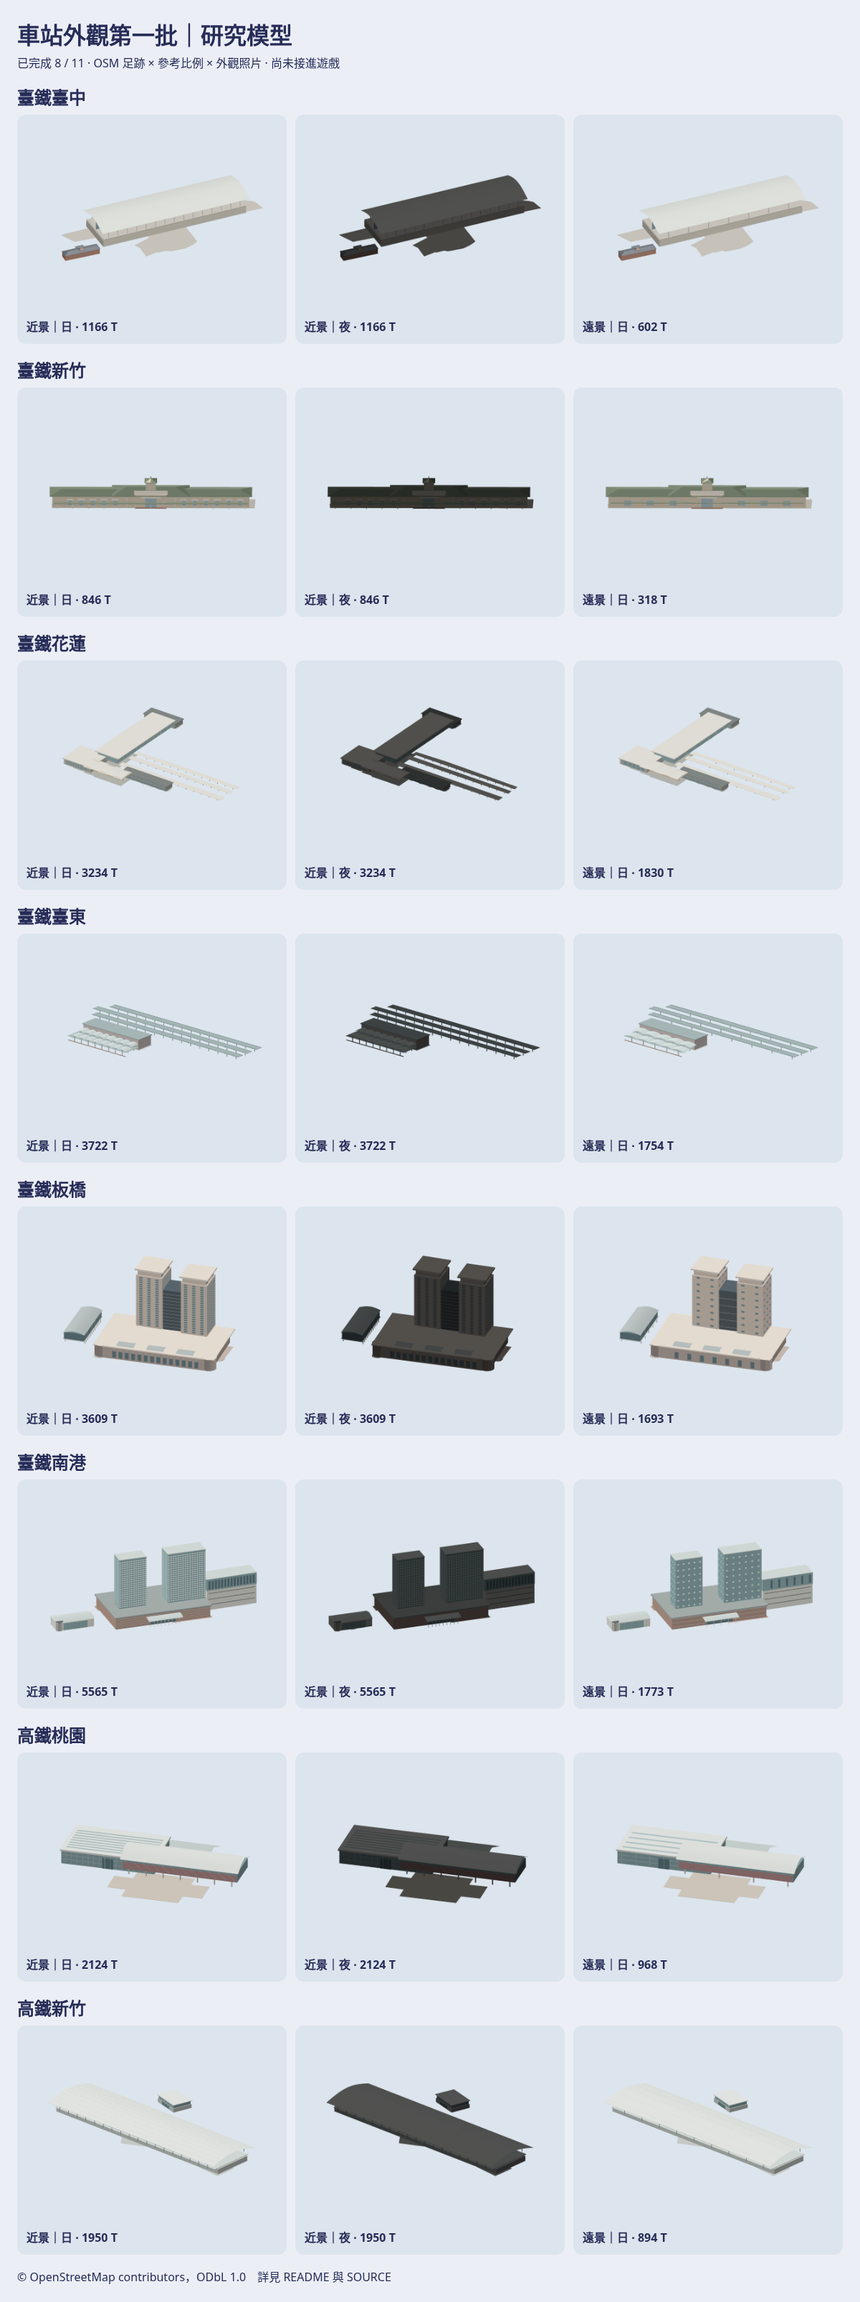
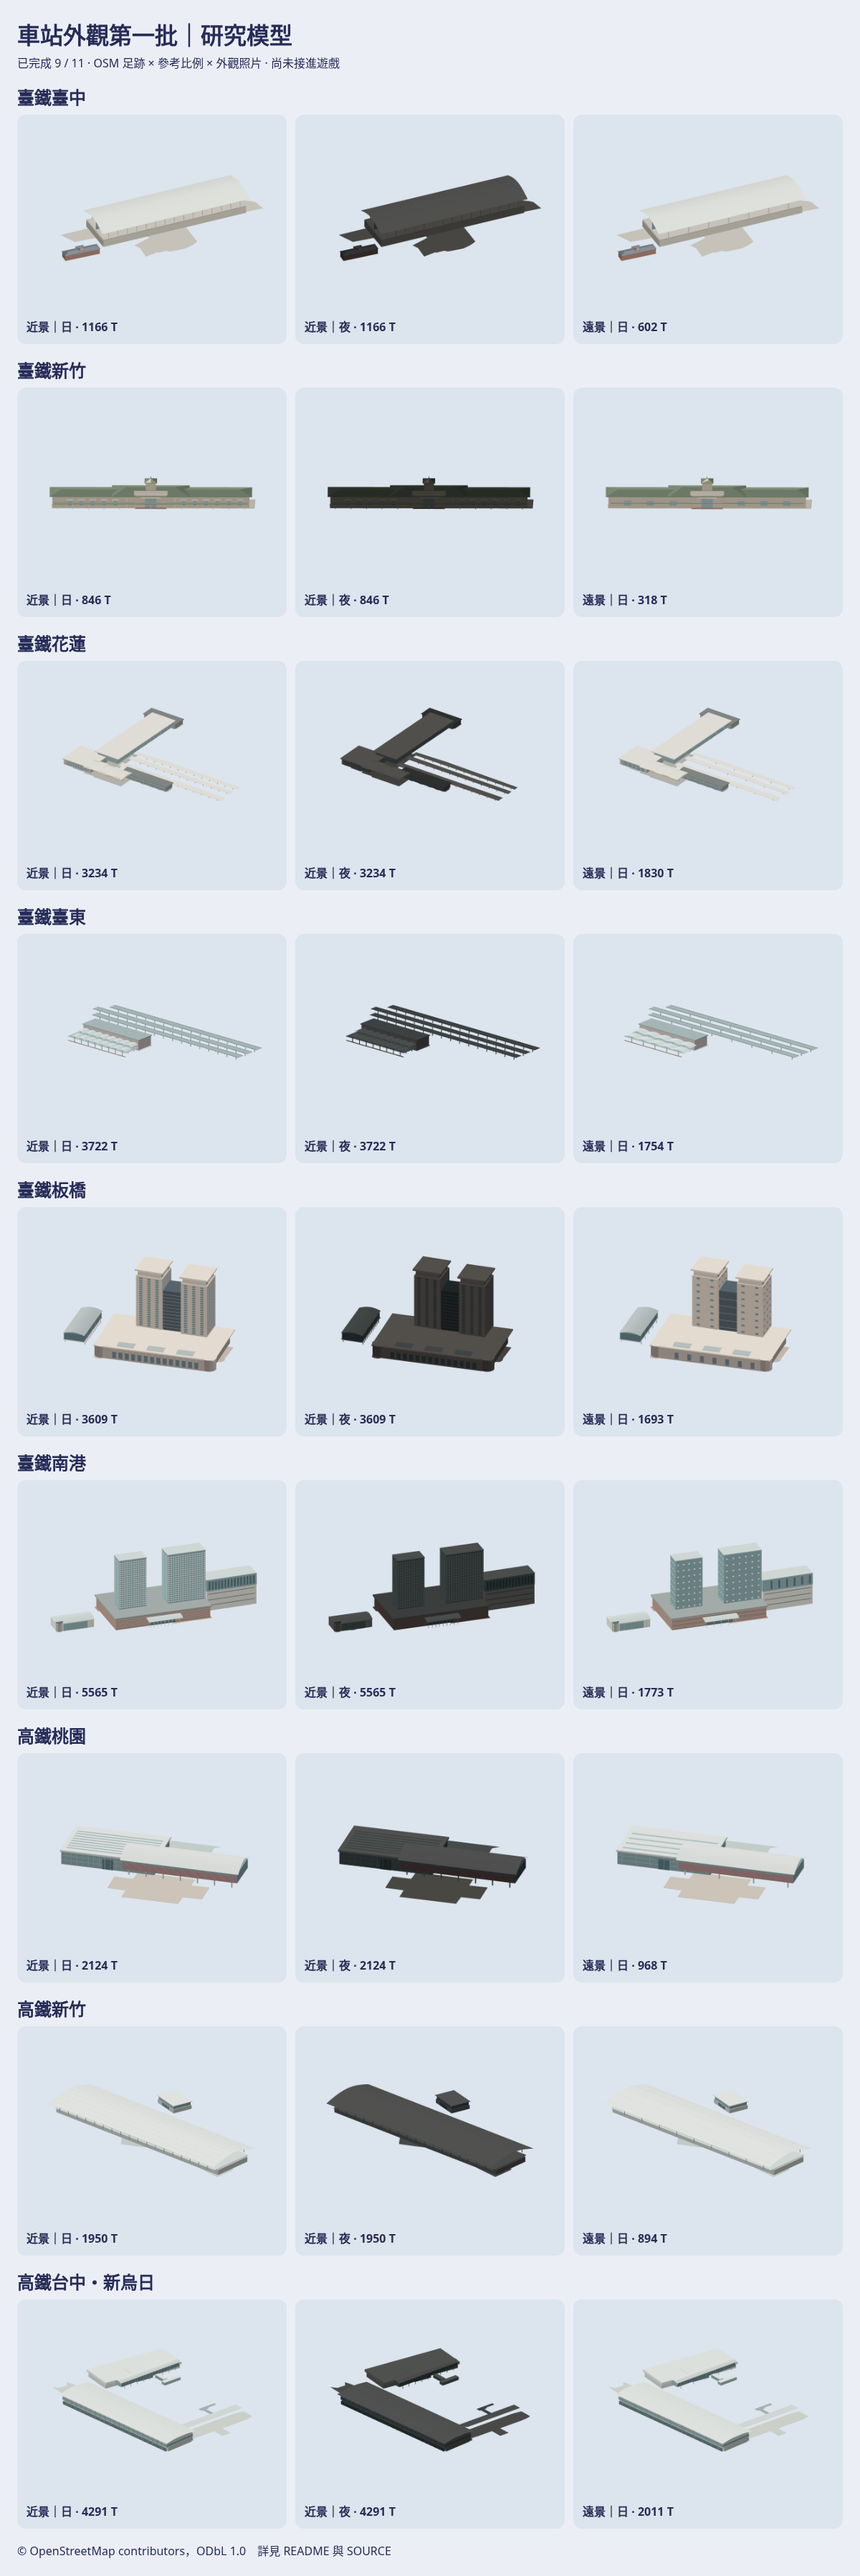
Add Taichung HSR exterior study
Agent: Codex

diff --git a/Sources/GamePresentation/Map3DStationExteriorBatch1.swift b/Sources/GamePresentation/Map3DStationExteriorBatch1.swift
@@ -3,7 +3,7 @@ import Foundation
 /// Isolated exterior study. No station catalog or live-map lookup calls this type.
 public enum Map3DStationExteriorBatch1 {
     public enum LevelOfDetail: Sendable { case near, far }
-    public enum Station: String, CaseIterable, Sendable { case taichungTRA = "tra-taichung", hsinchuTRA = "tra-hsinchu", hualienTRA = "tra-hualien", taitungTRA = "tra-taitung", banqiaoTRA = "tra-banqiao", nangangTRA = "tra-nangang", taoyuanHSR = "hsr-taoyuan", hsinchuHSR = "hsr-hsinchu" }
+    public enum Station: String, CaseIterable, Sendable { case taichungTRA = "tra-taichung", hsinchuTRA = "tra-hsinchu", hualienTRA = "tra-hualien", taitungTRA = "tra-taitung", banqiaoTRA = "tra-banqiao", nangangTRA = "tra-nangang", taoyuanHSR = "hsr-taoyuan", hsinchuHSR = "hsr-hsinchu", taichungHSR = "hsr-taichung" }
 
     public static func model(for station: Station, detail: LevelOfDetail) -> Map3DModelPack.Model {
         var builder = StationKitBuilder()
@@ -16,6 +16,7 @@ public enum Map3DStationExteriorBatch1 {
         case .nangangTRA: builder.nangangExteriorStudy(detail: detail)
         case .taoyuanHSR: builder.taoyuanHSRExteriorStudy(detail: detail)
         case .hsinchuHSR: builder.hsinchuHSRExteriorStudy(detail: detail)
+        case .taichungHSR: builder.taichungHSRExteriorStudy(detail: detail)
         }
         return .flat(named: "station-exterior-study-\(station.rawValue)-\(detail == .near ? "near" : "far")", from: builder.mesh)
     }
@@ -534,6 +535,48 @@ public enum Map3DStationExteriorBatch1 {
         (-43.618, -69.753), (-47.282, -69.641), (-46.889, -59.812),
         (-61.120, -58.700), (-74.272, -57.866), (-75.019, -69.363),
         (-77.159, -69.219), (-77.350, -75.446),
+    ]
+
+    // Taichung HSR / TRA Xinwuri / Taichung MRT / two transfer links.
+    // osmtoday Taiwan PBF 2026-11-06. Metres east/north from
+    // (120.61474665, 24.1112536); © OpenStreetMap contributors, ODbL 1.0.
+    static let xinwuriFootprint: [(Float, Float)] = [ // OSM way 337921979
+        (7.688, -149.713), (-93.034, -138.137), (-116.692, -135.413),
+        (-125.989, -134.757), (-135.986, -134.868), (-144.826, -135.258),
+        (-150.226, -135.647), (-153.250, -167.304), (-148.257, -170.039),
+        (-139.630, -172.841), (-130.018, -174.787), (-121.483, -176.044),
+        (-60.485, -182.793), (-60.769, -185.284), (-63.936, -213.817),
+        (-52.599, -214.829), (-38.897, -215.941), (-37.192, -196.893),
+        (-36.259, -185.273), (4.562, -189.543), (21.928, -190.266),
+        (29.174, -201.696), (36.908, -199.295), (37.700, -189.654),
+        (43.972, -188.575), (49.301, -186.074), (50.630, -169.283),
+        (46.915, -164.491), (39.638, -159.820), (31.965, -157.241),
+        (56.486, -133.656), (32.473, -130.888),
+    ]
+    static let taichungHSRFootprint: [(Float, Float)] = [ // OSM way 544377825
+        (110.684, 215.941), (119.443, 201.696), (142.218, 199.906),
+        (153.250, 212.360), (145.577, 69.074), (141.944, 19.526),
+        (138.716, -9.207), (137.620, -18.903), (133.023, -59.890),
+        (132.008, -68.874), (127.684, -107.392), (121.128, -141.329),
+        (112.511, -127.674), (89.786, -124.772), (78.744, -136.147),
+        (65.702, -134.757), (56.486, -133.656), (32.473, -130.888),
+        (26.373, -125.617), (44.409, -111.373), (60.901, -97.451),
+        (69.630, -98.285), (76.085, 25.041), (80.824, 74.645),
+        (103.792, 195.914),
+    ]
+    static let taichungLinkEWFootprint: [(Float, Float)] = [ // OSM way 862779520
+        (-87.807, -84.575), (-79.799, -85.320), (-69.873, -86.332),
+        (-65.742, -86.676), (-64.657, -75.468), (-111.750, -70.142),
+        (-112.592, -77.725), (-87.361, -80.839),
+    ]
+    static let taichungLinkNSFootprint: [(Float, Float)] = [ // OSM way 862779521
+        (-79.799, -85.320), (-83.098, -117.622),
+        (-73.172, -118.767), (-69.873, -86.332),
+    ]
+    static let taichungMRTFootprint: [(Float, Float)] = [ // OSM way 862779522
+        (-116.692, -135.413), (-93.034, -138.137), (7.688, -149.713),
+        (15.392, -143.864), (32.473, -130.888), (-73.172, -118.767),
+        (-83.098, -117.622), (-146.257, -110.372), (-148.632, -131.699),
     ]
 
 }
@@ -1275,5 +1318,117 @@ private extension StationKitBuilder {
         liujia.box(0, 6.52, -15.4, 42, 0.22, 0.42, steel)
         add(.flat(named: "liujia-station", from: liujia.mesh),
             at: Map3DPoint(-61.24, 0, 82.58), angle: 86.1353 * .pi / 180)
+    }
+
+    mutating func taichungHSRExteriorStudy(detail: Map3DStationExteriorBatch1.LevelOfDetail) {
+        let roof = Map3DColor.rgb(0xE6EAE6)
+        let trim = Map3DColor.rgb(0xD8E0DD)
+        let wall = Map3DColor.rgb(0xD4D8D1)
+        let steel = Map3DColor.rgb(0xA8B8B6)
+        let glass = Map3DColor.rgb(0x98B7B8)
+        let darkGlass = Map3DColor.rgb(0x6A8589)
+        let shade = Map3DColor.rgb(0x697A7B)
+
+        footprint(Map3DStationExteriorBatch1.taichungHSRFootprint, color: wall)
+        footprint(Map3DStationExteriorBatch1.xinwuriFootprint, color: wall)
+        footprint(Map3DStationExteriorBatch1.taichungMRTFootprint, color: trim,
+                  baseY: 8, height: 0.32)
+        for outline in [Map3DStationExteriorBatch1.taichungLinkEWFootprint,
+                        Map3DStationExteriorBatch1.taichungLinkNSFootprint] {
+            footprint(outline, color: steel, baseY: 4, height: 0.32)
+        }
+
+        // The three halls have no OSM height tags. The 30/18/23 m peaks are
+        // reference-display estimates; roof and facade come from photos.
+        var hsr = StationKitBuilder()
+        hsr.box(0, 0.32, 0, 351, 75, 11.5, wall)
+        hsr.box(0, 11.82, 0, 350, 84, 7.2, glass)
+        hsr.box(0, 19.02, 0, 348, 83, 5.8, trim)
+        hsr.canopy(0, 25, 0, length: 360, width: 95,
+                   rise: 5, color: roof)
+        for z in stride(from: Float(-38), through: 38, by: detail == .near ? 9.5 : 19) {
+            let y = 25 + sinf((z + 47.5) / 95 * .pi) * 5
+            hsr.box(0, y + 0.02, z, 356, 0.14, 0.06, trim)
+        }
+        for x in stride(from: Float(-160), through: 160, by: detail == .near ? 16 : 40) {
+            for z: Float in [-43, 43] {
+                hsr.box(x, 0.32, z, 0.85, 0.85, 24.4, steel)
+                if detail == .near {
+                    hsr.beam(Map3DPoint(x, 20, z),
+                             Map3DPoint(x, 25.2, z * 0.77), 0.3, shade)
+                }
+            }
+        }
+        for z: Float in [-42.1, 42.1] {
+            hsr.box(0, 0.32, z, 347, 0.28, 8.5, darkGlass)
+        }
+        for x in stride(from: Float(-162), through: 162, by: detail == .near ? 9 : 27) {
+            for z: Float in [-42.35, 42.35] {
+                hsr.box(x, 1.0, z, 0.38, 0.2, 18.0, trim)
+            }
+        }
+        add(.flat(named: "taichung-hsr-hall", from: hsr.mesh),
+            at: Map3DPoint(107.0, 0, -38.07), angle: 79.0653 * .pi / 180)
+
+        var tra = StationKitBuilder()
+        tra.box(0, 0.32, 0, 204, 74, 12.0, wall)
+        tra.box(0, 12.32, 0, 208, 84, 5.68, roof)
+        tra.box(0, 1, -37.2, 52, 0.25, 15.8, darkGlass)
+        tra.box(0, 0.32, -42.5, 45, 8.0, 17.0, darkGlass)
+        for x in stride(from: Float(-20), through: 20, by: detail == .near ? 4 : 10) {
+            tra.box(x, 0.32, -46.65, 0.3, 0.2, 17.0, steel)
+        }
+        for x in stride(from: Float(-96), through: 96, by: detail == .near ? 12 : 30) {
+            for z: Float in [-37.5, 37.5] {
+                tra.box(x, 0.32, z, 0.6, 0.5, 12, trim)
+            }
+        }
+        tra.box(0, 18, -24, 58, 43, 1.0, roof)
+        for x in stride(from: Float(-21), through: 21, by: detail == .near ? 10.5 : 21) {
+            tra.box(x, 0.32, -43, 0.6, 0.6, 18.0, steel)
+        }
+        add(.flat(named: "xinwuri-station", from: tra.mesh),
+            at: Map3DPoint(-48.18, 0, 174.11), angle: 0.6372 * .pi / 180)
+
+        var mrt = StationKitBuilder()
+        for x in stride(from: Float(-76), through: 76, by: detail == .near ? 19 : 38) {
+            for z: Float in [-8.5, 8.5] {
+                mrt.box(x, 0, z, 0.8, 0.8, 8, steel)
+            }
+        }
+        mrt.box(0, 8.32, 0, 176, 20, 10.2, glass)
+        for z: Float in [-10.2, 10.2] {
+            mrt.box(0, 8.32, z, 174, 0.25, 8.8, darkGlass)
+        }
+        for x in stride(from: Float(-78), through: 78, by: detail == .near ? 9 : 26) {
+            for z: Float in [-10.45, 10.45] {
+                mrt.box(x, 8.32, z, 0.3, 0.2, 10.0, trim)
+            }
+        }
+        mrt.canopy(0, 18.5, 0, length: 180, width: 21.5,
+                   rise: 4.5, color: roof)
+        for x in stride(from: Float(-72), through: 72, by: detail == .near ? 18 : 36) {
+            mrt.beam(Map3DPoint(x, 18.5, -10),
+                     Map3DPoint(x, 22.7, 0), 0.25, steel)
+        }
+        add(.flat(named: "taichung-mrt", from: mrt.mesh),
+            at: Map3DPoint(-58.18, 0, 131.47), angle: -6.5481 * .pi / 180)
+
+        for (name, at, angle, length, width) in [
+            ("taichung-link-east-west", Map3DPoint(-88.87, 0, 78.69), Float(-6.4527), Float(47.6), Float(11.6)),
+            ("taichung-link-north-south", Map3DPoint(-76.57, 0, 102.16), Float(84.1794), Float(32.6), Float(10.0))
+        ] {
+            var link = StationKitBuilder()
+            link.box(0, 4.32, 0, length, width, 6.8, glass)
+            link.box(0, 11.12, 0, length + 0.5, width + 0.4, 0.88, roof)
+            for x in stride(from: -length / 2 + 4, through: length / 2 - 4,
+                            by: detail == .near ? 6 : 12) {
+                for z in [-width / 2, width / 2] {
+                    link.box(x, 4.32, z, 0.25, 0.2, 6.8, steel)
+                }
+            }
+            add(.flat(named: name, from: link.mesh), at: at,
+                angle: angle * .pi / 180)
+        }
     }
 }

diff --git a/Tests/GamePresentationTests/Map3DStationExteriorBatch1Tests.swift b/Tests/GamePresentationTests/Map3DStationExteriorBatch1Tests.swift
@@ -2,6 +2,47 @@ import XCTest
 @testable import GamePresentation
 
 final class Map3DStationExteriorBatch1Tests: XCTestCase {
+    func testTaichungHSRStudyPreservesFiveWaysAndThreeDistinctHalls() {
+        let near = Map3DStationExteriorBatch1.model(for: .taichungHSR, detail: .near)
+        let far = Map3DStationExteriorBatch1.model(for: .taichungHSR, detail: .far)
+        XCTAssertGreaterThan(near.triangleCount, far.triangleCount)
+        XCTAssertLessThanOrEqual(near.triangleCount, 6_000)
+        XCTAssertLessThanOrEqual(far.triangleCount, 2_500)
+        XCTAssertNil(Map3DStationKit.model(id: near.name))
+        XCTAssertNil(Map3DStationKit.model(id: far.name))
+        XCTAssertEqual(near.maximum.z, 30.08, accuracy: 0.01) // estimated roof plus rib
+        XCTAssertTrue(near.vertices.contains { abs($0.z - 23) < 0.01 })
+        XCTAssertTrue(near.vertices.contains { abs($0.z - 18) < 0.01 })
+        let outlines: [([(Float, Float)], Float)] = [
+            (Map3DStationExteriorBatch1.taichungHSRFootprint, 0.32),
+            (Map3DStationExteriorBatch1.xinwuriFootprint, 0.32),
+            (Map3DStationExteriorBatch1.taichungMRTFootprint, 8.32),
+            (Map3DStationExteriorBatch1.taichungLinkEWFootprint, 4.32),
+            (Map3DStationExteriorBatch1.taichungLinkNSFootprint, 4.32)
+        ]
+        XCTAssertEqual(outlines.map { $0.0.count }, [25, 32, 9, 8, 4])
+        for (outline, top) in outlines {
+            for (east, north) in outline {
+                XCTAssertTrue(near.vertices.contains {
+                    abs($0.x - east) < 0.002 && abs($0.y + north) < 0.002
+                        && abs($0.z - top) < 0.002
+                })
+            }
+        }
+        let colours = Set(near.vertices.map(\.color))
+        let ordered = [UInt32(0xE6EAE6), 0xD8E0DD, 0xD4D8D1,
+                       0xA8B8B6, 0x98B7B8, 0x6A8589, 0x697A7B].map(Map3DColor.rgb)
+        func luminance(_ colour: UInt32) -> Float {
+            Float(colour & 255) * 0.2126 + Float((colour >> 8) & 255) * 0.7152
+                + Float((colour >> 16) & 255) * 0.0722
+        }
+        for (lighter, darker) in zip(ordered, ordered.dropFirst()) {
+            XCTAssertTrue(colours.contains(lighter))
+            XCTAssertGreaterThan(luminance(lighter), luminance(darker))
+        }
+        XCTAssertTrue(colours.contains(ordered.last!))
+    }
+
     func testHsinchuHSRStudyUsesTwoOSMWaysAndSeparateRoofs() {
         let near = Map3DStationExteriorBatch1.model(for: .hsinchuHSR, detail: .near)
         let far = Map3DStationExteriorBatch1.model(for: .hsinchuHSR, detail: .far)

diff --git a/docs/art/station-exteriors-batch1/README.md b/docs/art/station-exteriors-batch1/README.md
@@ -1,4 +1,4 @@
-# 車站外觀第一批 studies：第 8 次交付
+# 車站外觀第一批 studies：第 9 次交付
 
 這是獨立研究配方，沒有接到 `Map3DStationKit` 的站點選型、地圖或存檔。公開庫只有配方、測試與一張總覽；逐方向原生模型、GLB、日夜圖與離線檢視頁在私有素材庫的同名資料夾。
 
@@ -99,11 +99,24 @@
 
 外觀只看 Wikimedia Commons [高鐵站長曲棚與玻璃大廳](https://commons.wikimedia.org/wiki/File:THSR_Hsinchu_Station_01.jpg)、[另一側弧棚與鋼構](https://commons.wikimedia.org/wiki/File:THSR_Hsinchu_Station_20120911.jpg)、[高鐵新竹與六家站相對位置](https://commons.wikimedia.org/wiki/File:THSR_Hsinchu_Station_and_TRA_Liujia_Station_2022-02-13.jpg)、[六家站正面](https://commons.wikimedia.org/wiki/File:TRA_Liujia_Station_2022-02-13.jpg) 及[轉乘外廊夜景](https://commons.wikimedia.org/wiki/File:The_walkway_between_THSR_Hsinchu_Station_and_TRA_Liujia_Station_night_scene_20111113.jpg)；[高鐵官方站區圖](https://www.thsrc.com.tw/ArticleContent/a7a04c89-900b-4798-95a3-c01c455622f4/assets/1f4c3f57-f8ec-4834-bb14-26fa003f8085.pdf) 只核對配置，沒有當測量尺度。照片不打包、不作貼圖。以現有 station kit 盒體、曲棚、柱與鋼架配方組成兩棟，淡白屋頂、淡混凝土、青灰玻璃和深色桁架保留明暗順序。棚面板縫、弧度、站廳比例、柱距與六家站高均為推估；未有 OSM 輪廓的轉乘通廊及精確月台位置未建模。近景 **1,950 三角**、遠景 **894 三角**，仍待作者核對外觀。
 
-## 尚缺的三站
+## 已完成：高鐵台中（含臺鐵新烏日、中捷與轉乘通廊）
+
+| 部件 | OSM 足跡最小旋轉矩形 | 高度、屋頂與外觀判斷 |
+| --- | --- | --- |
+| 高鐵台中站體 | [way 544377825](https://www.openstreetmap.org/way/544377825)，**360.331 × 96.123 m**，25 個不重複頂點；`layer=2` | OSM 沒有高度或屋頂標籤。約 **30 m** 長棚峰、屋面肋線、支撐桁架、低層玻璃立面依參考展示比例與照片推估。 |
+| 臺鐵新烏日站 | [way 337921979](https://www.openstreetmap.org/way/337921979)，**210.337 × 84.349 m**，32 個頂點；`layer=2` | OSM 沒有高度或屋頂標籤。約 **18 m** 平棚、正面高玻璃入口與柱列依照片和參考展示比例推估。 |
+| 中捷高鐵臺中站 | [way 862779522](https://www.openstreetmap.org/way/862779522)，**180.108 × 21.553 m**，9 個頂點；`layer=2` | OSM 沒有高度或屋頂標籤。約 **8 m** 基底、**23 m** 弧棚峰、白色金屬波浪棚與玻璃立面依照片推估。 |
+| 東西轉乘通廊 | [way 862779520](https://www.openstreetmap.org/way/862779520)，**47.628 × 11.664 m**，8 個頂點 | OSM 無高度、層數或屋頂標籤。約 **4–12 m** 架空玻璃通廊依參考展示和照片推估。 |
+| 南北轉乘通廊 | [way 862779521](https://www.openstreetmap.org/way/862779521)，**32.640 × 10.002 m**，4 個頂點；`layer=1` | 同樣沒有高度、層數或屋頂標籤；約 **4–12 m** 為推估。 |
+
+五個 way 的全部非閉合邊界頂點從 2026-11-06 下載的 osmtoday `asia/taiwan.pbf` 以 pyosmium 擷取，轉為局部公尺座標；原點為 120.61474665°E、24.1112536°N。尺寸、方向與五件相對位置與參考庫 `Railway/taiwan-rail-reference-clean/source/rail-3d/assets/stations/xinwuri-complex-v1/metadata.json` 核對；`blender-buildings-v1/xinwuri-complex-v1/model.json` 只量三座站體和兩條通廊的相對比例，不用原網格。所有高度均屬展示／外觀推估。OSM 輪廓 © OpenStreetMap contributors，ODbL 1.0。
+
+外觀只看 Wikimedia Commons [高鐵台中站長棚與入口鋼架](https://commons.wikimedia.org/wiki/File:THSR_Taichung_Station_01.jpg)、[高鐵與新烏日全景](https://commons.wikimedia.org/wiki/File:THSR_Taichung_Station_and_TRA_New_Wurih_Station_20111008a.JPG)、[新烏日正面玻璃入口](https://commons.wikimedia.org/wiki/File:新烏日車站.JPG)、[中捷白色曲棚與玻璃立面](https://commons.wikimedia.org/wiki/File:HSR_Taichung_Station_(Taichung_MRT).jpg)、[中捷與高鐵之間的空橋](https://commons.wikimedia.org/wiki/File:View_at_skyway_between_exit_2_and_the_main_building_of_TMRT_HSR_Taichung_Station.jpg)；[臺中觀旅高鐵頁](https://travel.taichung.gov.tw/zh-tw/Traffic/THSR) 只核對站區關係，沒有當測量尺度。照片不打包、不作貼圖。以現有 station kit 盒體、曲棚、梁柱和淡色玻璃組成近／遠景，保留淺屋頂、青灰窗與暗桁架的明暗次序。高鐵棚曲度、中捷波浪節奏、新烏日入口比例和通廊高程仍待作者核對。近景 **4,291 三角**、遠景 **2,011 三角**。
+
+## 尚缺的兩站
 
 | 站 | 來源與目前量到的部件足跡（m） | 還缺的核對 |
 | --- | --- | --- |
-| 高鐵台中（含新烏日） | 參考庫 `stations/xinwuri-complex-v1/metadata.json` 的 OSM 輪廓：高鐵臺中 360 × 96（544377825）；新烏日 210 × 84（337921979）；中捷高鐵臺中 180 × 22（862779522）；轉乘通廊 33 × 10（862779521）；轉乘通廊 48 × 12（862779520） | 高鐵／臺鐵／中捷共構關係與各屋頂、真實高度。 |
 | 高鐵台南 | 參考庫 `stations/tainan-hsr-v1/metadata.json` 的 OSM 輪廓：高鐵臺南 114 × 57（r9351022:1）；高鐵月台棚 336 × 14（r9351022:0）；高鐵月台棚 332 × 11（266850895）；沙崙 149 × 27（316034163） | 挑簷、月台棚與真實高度。 |
 | 高鐵左營 | 參考庫 `stations/zuoying-complex-v1/metadata.json` 的 OSM 輪廓：高鐵左營 186 × 78（111991261）；臺鐵新左營 168 × 67（303296097） | 大頂與真實高度。 |
 
